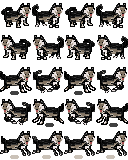
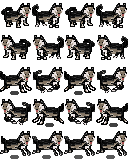
fixed movements

diff --git a/index.html b/index.html
@@ -5,16 +5,19 @@
         <meta name="viewport" content="width=device-width, initial-scale=1.0">
         <link rel="stylesheet" href="./src/styles//index.css" />
         <link rel="stylesheet" href="./src/styles//title.css" />
+        <link rel="stylesheet" href="./src/styles//loading.css" />
         <title>Cappy's Grand Adventure</title>
+                <script src ='./src/scripts/loading.js'></script>
         <script src="https://kit.fontawesome.com/92fff4274c.js" crossorigin="anonymous"></script>
     </head>
 
     <body>
-        <audio id='sound' src='/src/sound/l i m b o - muddy paws.mp3'></audio>
-        <div class='overarch'>
+        <div class='show' onclick="this.className='hide'">
+            <audio id='sound' src='/src/sound/l i m b o - muddy paws.mp3'></audio>
+            <div class='overarch'>
             
-            <div class='left-side'>
-
+                <div class='left-side'>
+                    
                     <div class='story'>
                         Cold, alone, and hungry, Captain the homeless Shiba is really craving a steak dinner.
                         <br><br>
@@ -24,79 +27,80 @@
                         <br><br>
                         Don't get caught by the employees!
                     </div>
-            
-
-                <div class='contact'>
-
-                    <a href='https://www.linkedin.com/in/jrmcc/' class='linkedin'>
-                        <i class="fab fa-linkedin-in"></i>
-                    </a>
-
-                    <a href='https://github.com/johnrobertmcc?tab=repositories' class='github'>
-                        <i class="fab fa-github"></i>
-                    </a>
+                    
+                    
+                    <div class='contact'>
+                        
+                        <a href='https://www.linkedin.com/in/jrmcc/' class='linkedin'>
+                            <i class="fab fa-linkedin-in"></i>
+                        </a>
+                        
+                        <a href='https://github.com/johnrobertmcc?tab=repositories' class='github'>
+                            <i class="fab fa-github"></i>
+                        </a>
+                        
+                        
+                    </div>
+                    <h3>
+                        <p class='created'>Created by</p>
+                        John Robert McCann
+                    </h3>
+                    
+                    
+                    
+                </div>
                 
-                    
+                <div class='background'>
+                    <header class='title'>
+                        <h1 class="fancy">
+                            Cappy's Grand Adventure
+                        </h1>
+                        <script src='./src//scripts/main.js'></script>
+                    </header>
+                    <div class='canvas-container'>
+                        <!-- <canvas class='canvases' id='background-canvas' width='1000' height='600'style="border:1px solid black"></canvas> -->
+                        <canvas class='canvases' id="canvas" width='1000' height='600' style="border:1px solid black"></canvas>
+                    </div>
+                    <script src="./src/index.js"></script>
                 </div>
-                <h3>
-                    <p class='created'>Created by</p>
-                    John Robert McCann
-                </h3>
-
-        
-            
-            </div>
-
-            <div class='background'>
-                <header class='title'>
-                    <h1 class="fancy">
-                        Cappy's Grand Adventure
-                    </h1>
-                    <script src='./src//scripts/main.js'></script>
-                </header>
-                <div class='canvas-container'>
-                    <!-- <canvas class='canvases' id='background-canvas' width='1000' height='600'style="border:1px solid black"></canvas> -->
-                    <canvas class='canvases' id="canvas" width='1000' height='600' style="border:1px solid black"></canvas>
-                </div>
-                <script src="./src/index.js"></script>
-            </div>
-
-            <div class='right-side'>
-                <h3 class='instructions'>
-                    Use left and right arrow keys to move 
-                    <br><br> 
-                    Use the up arrow key to jump 
-                    <br><br>
-                    Use the down arrow key to sit 
-                    <br><br>
-                    Hold down the shift key while walking to run
-                    <br><br>
-                    and remember: you're a very good boy
-                </h3>
-
-                <div class='credit'>
+                
+                <div class='right-side'>
+                    <h3 class='instructions'>
+                        Use left and right arrow keys to move 
+                        <br><br> 
+                        Use the up arrow key to jump 
+                        <br><br>
+                        Use the down arrow key to sit 
+                        <br><br>
+                        Press the shift key while walking to run
+                        <br><br>
+                        and remember: you're a very good boy
+                    </h3>
                     
-                    <a href='https://open.spotify.com/artist/13VunSzrVSmJBpUWxUajJF' class='spotify'>
-                        <i class="fab fa-spotify"></i> <br>music by Limbo 
-                    </a>
+                    <div class='credit'>
+                        
+                        <a href='https://open.spotify.com/artist/13VunSzrVSmJBpUWxUajJF' class='spotify'>
+                            <i class="fab fa-spotify"></i> <br>music by Limbo 
+                        </a>
                         |
-                    
-                    <a class='donate' href=https://secure2.convio.net/accn/site/Donation2;jsessionid=00000000.app20115a?idb=14831026&1400.donation=form1&df_id=1400&mfc_pref=T&NONCE_TOKEN=4611148D19C534AAECBC2633B900B3DF&idb=0>
-                        <i class="fas fa-paw"></i>
-                        <br>
-                        click here to help a homeless animal
-                    </a>
+                        
+                        <a class='donate' href=https://secure2.convio.net/accn/site/Donation2;jsessionid=00000000.app20115a?idb=14831026&1400.donation=form1&df_id=1400&mfc_pref=T&NONCE_TOKEN=4611148D19C534AAECBC2633B900B3DF&idb=0>
+                            <i class="fas fa-paw"></i>
+                            <br>
+                            click here to help a homeless animal
+                        </a>
                         |
-                    
-                    <a href='https://www.instagram.com/cappytheshibe/?hl=en' class='instagram'>
-                        <i class="fab fa-instagram"></i><br> inspired by Captain
-                    </a>
-                    
-    
+                        
+                        <a href='https://www.instagram.com/cappytheshibe/?hl=en' class='instagram'>
+                            <i class="fab fa-instagram"></i><br> inspired by Captain
+                        </a>
+                        
+                        
+                    </div>
                 </div>
+                
             </div>
-        
         </div>
     </body>
-
+    
 </html>

diff --git a/src/index.js b/src/index.js
@@ -22,20 +22,21 @@ const keys = []
 const player = {
 
     x: 11,
-    y: 575,
-    w: 32,
-    h: 32,
+    y: 570,
+    w: 140.5,
+    h: 135,
     frameX: 0,
     frameY: 0,
     speed: 5,
     moving: false,
     jumping: false,
     position: -20,
-    running: false
+    running: false,
+    faceLeft: false
 }
 
 const captain = new Image();
-captain.src = 'src/styles/images/captainV2.png'
+captain.src = 'src/styles/images/captainV3.png'
 
 function drawCaptain(img, sX, sY, sW, sH, dX, dY, dW, dH){
     ctx.drawImage(img, sX, sY, sW, sH, dX, dY, dW, dH)
@@ -56,25 +57,32 @@ window.addEventListener('keyup', function(e){
     player.running = false;
 });
 
+
 function moveThisLad(){
 
+    
     //move right
+    
     if(keys[39] && player.x < 550) {
-        //right facing x 0-3 y 0
         player.position -= 5
         player.frameY = 0;
         player.x += player.speed;
         player.moving = true;
+        player.faceLeft = false;
     }
+
     if(keys[39] && player.x >=550) {
         player.moving = true;
         player.position -= 5;
+        player.faceLeft = false;
     }
     if(player.y === 575 && keys[16] && keys[39]){
-        player.position = player.position * 1.25;
+        // player.position = player.position * 1.02;
+        // player.speed = 10;
         player.frameY = 2;
-        // debugger
+        player.h = 130;
         player.running = true;
+        player.faceLeft = false;
     }
 
 
@@ -84,27 +92,38 @@ function moveThisLad(){
         player.position += 5
         player.moving = true;
         player.frameY = 1;
-        player.x -= player.speed
+         player.h = 125;
+        player.x -= player.speed;
+        player.faceLeft = true;
 
     }
     if(keys[37] && player.x >= -10) {
         player.moving = true;
+         player.faceLeft = true;
         // player.position += 5;
     }
     if(player.y === 575 && keys[16] && keys[37]){
-        player.position = player.position * 1.25;
-        // debugger
+        // player.position = player.position * -1.02;
         player.frameY = 3;
+        player.h = 125;
         player.running = true;
+        player.faceLeft = true;
     }
 
     //jumping
-    if(keys[38] && player.y === 575){
+    if(keys[38] && player.y === 575 && !player.faceLeft){
         player.frameX = 0;
         player.frameY = 4;
+        player.h = 130
+        player.y -= 40
+        player.jumping = true;
+    }
+    if(keys[38] && player.y === 575 && player.faceLeft){
+        player.frameX = 0;
+        player.frameY = 9;
+         player.h = 138
         player.y -= 50
         player.jumping = true;
-
     }
     if(player.y !== 575){
         player.moving = false;
@@ -136,16 +155,18 @@ function applyGravity(){
         player.frameX = 0;
         player.frameY = 0;
     }
-    // if(player.y === 601){
-    //     player.frameX = 0;
-    //     player.frameY = 0;
-    // }
+    if(player.y === 575){
+        player.jumping = false
+    }
 }
 
 function resetOnStand(){
-    if(!player.moving || !player.jumping || !player.running){
+    if(!player.moving && !player.jumping && !player.running && player.y === 575 && !player.faceLeft){
         player.frameX = 0;
         player.frameY = 0;
+    } else if(!player.moving && !player.jumping && !player.running && player.faceLeft){
+        player.frameX = 0;
+        player.frameY = 1
     }
 }
 
@@ -231,17 +252,16 @@ function animate() {
             player.h, 
             player.x, 
             player.y, 
-            player.w * 3.7, 
-            player.h * 3.7,            
+            player.w * .9, 
+            player.h * .9,            
         )
         
         moveThisLad();
         makeHimWalk();
         applyGravity();
         // changeBackground();
-        // makeHimRun();
         makeHimJump();
-        // resetOnStand();
+        resetOnStand();
         toggleRun();
     
 

diff --git a/src/styles/index.css b/src/styles/index.css
@@ -42,7 +42,7 @@
 .right-side> h3 {
     margin-top: 100px;
     padding: 15px;
-    
+
 }
 
 .story{
@@ -68,9 +68,9 @@
     flex-direction: column;
     justify-content: space-between;
     overflow: hidden;
-    -webkit-box-shadow: -23px 49px 158px -42px rgba(0,0,0,0.58);
-    -moz-box-shadow: -23px 49px 158px -42px rgba(0,0,0,0.58);
-    box-shadow: -23px 49px 158px -42px rgba(0,0,0,0.58);
+    -webkit-box-shadow: -23px 49px 158px -42px rgba(0,0,0,0.14);
+    -moz-box-shadow: -23px 49px 158px -42px rgba(0,0,0,0.26);
+    box-shadow: -23px 49px 158px -42px rgba(0,0,0,0.26);
 
 }
 .background{
@@ -88,9 +88,9 @@
 
 canvas{ 
     /* position: absolute; */
-    -webkit-box-shadow: -23px 200px 161px 82px rgba(0,0,0,0.14);
-    -moz-box-shadow: -23px 200px 161px 82px rgba(0,0,0,0.14);
-    box-shadow: -23px 200px 161px 82px rgba(0,0,0,0.14);
+    -webkit-box-shadow: -23px 200px 161px 82px rgba(0,0,0,0.07);
+    -moz-box-shadow: -23px 200px 161px 82px rgba(0,0,0,0.07);
+    box-shadow: -23px 200px 161px 82px rgba(0,0,0,0.07);
     background-color: black;
     background-image:
         radial-gradient(white, rgba(255,255,255,.2) 2px, transparent 40px),

diff --git a/src/scripts/loading.js b/src/scripts/loading.js
@@ -1,0 +1,12 @@
+keys = [];
+
+window.addEventListener('keydown', function(e){
+    debugger
+    keys[e.keyCode] = true;
+});
+
+if(keys.length !== 0){
+    if ( document.getElementById("show").classList.contains('temp') ){
+        document.getElementById("show").classList.remove('temp');
+    }
+}

diff --git a/src/styles/loading.css b/src/styles/loading.css
@@ -1,0 +1,3 @@
+/* .show{
+    display: none; 
+} */
